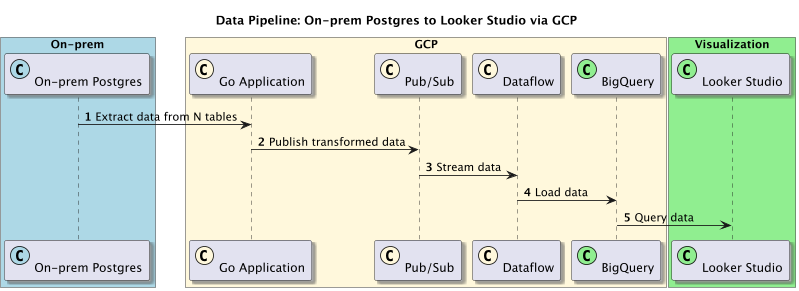
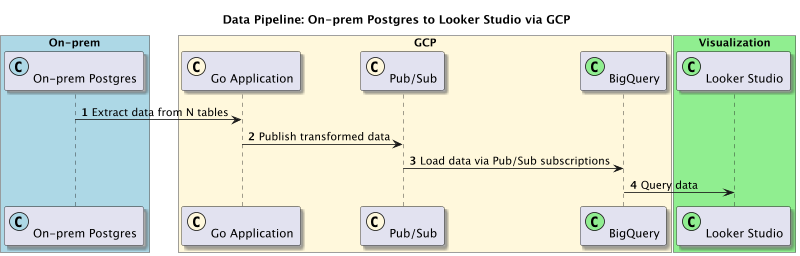
v02

Changed region(s): [[0.0, 0.125, 1.0, 1.0], [0.2703, 0.0312, 0.7209, 0.0938]]

diff --git a/cmd/main.go b/cmd/main.go
@@ -40,10 +40,10 @@ func main() {
 			defer func() { <-semaphore }()
 
 			// Load data from Postgres
-			loader := data.NewLoader(conn, tableConfig.Name)
+			loader := data.NewLoader(conn, tableConfig.Schema, tableConfig.Name)
 			records, err := loader.LoadData(ctx)
 			if err != nil {
-				log.Printf("Failed to load data for table %s: %v", tableConfig.Name, err)
+				log.Printf("Failed to load data for table %s.%s: %v", tableConfig.Schema, tableConfig.Name, err)
 				return
 			}
 
@@ -54,16 +54,16 @@ func main() {
 			// Initialize PubSub client for the specific topic
 			pubSubClient, err := gcp.NewPubSubClient(ctx, cfg.PubSub, tableConfig.TopicID)
 			if err != nil {
-				log.Printf("Failed to create PubSub client for table %s: %v", tableConfig.Name, err)
+				log.Printf("Failed to create PubSub client for table %s.%s: %v", tableConfig.Schema, tableConfig.Name, err)
 				return
 			}
 
 			// Publish data to PubSub
 			err = pubSubClient.Publish(ctx, transformedData, cfg.PubSub.Workers)
 			if err != nil {
-				log.Printf("Failed to publish data for table %s: %v", tableConfig.Name, err)
+				log.Printf("Failed to publish data for table %s.%s: %v", tableConfig.Schema, tableConfig.Name, err)
 			} else {
-				log.Printf("Successfully published data for table %s", tableConfig.Name)
+				log.Printf("Successfully published data for table %s.%s", tableConfig.Schema, tableConfig.Name)
 			}
 		}(tableConfig)
 	}

diff --git a/internal/data/loader.go b/internal/data/loader.go
@@ -9,17 +9,19 @@ import (
 
 type Loader struct {
 	dbConn *db.PostgresConnection
+	schema string
 	table  string
 }
 
-func NewLoader(dbConn *db.PostgresConnection, table string) *Loader {
+func NewLoader(dbConn *db.PostgresConnection, schema string, table string) *Loader {
 	return &Loader{
 		dbConn: dbConn,
+		schema: schema,
 		table:  table,
 	}
 }
 
 func (l *Loader) LoadData(ctx context.Context) ([]map[string]interface{}, error) {
-	log.Printf("Loading data from table: %s", l.table)
-	return db.LoadData(l.dbConn, l.table)
+	log.Printf("Loading data from table: %s.%s", l.schema, l.table)
+	return db.LoadData(l.dbConn, l.schema, l.table)
 }

diff --git a/internal/db/db.go b/internal/db/db.go
@@ -32,8 +32,9 @@ func (pc *PostgresConnection) Close(ctx context.Context) {
 	pc.Pool.Close()
 }
 
-func LoadData(dbConn *PostgresConnection, table string) ([]map[string]interface{}, error) {
-	query := fmt.Sprintf("SELECT * FROM %s", table)
+func LoadData(dbConn *PostgresConnection, schema string, table string) ([]map[string]interface{}, error) {
+	// Ensure table name is properly quoted to handle mixed-case and special characters
+	query := fmt.Sprintf(`SELECT * FROM "%s"."%s"`, schema, table)
 	rows, err := dbConn.Pool.Query(context.Background(), query)
 	if err != nil {
 		return nil, fmt.Errorf("failed to execute query: %w", err)

diff --git a/config/config.go b/config/config.go
@@ -24,6 +24,7 @@ type PostgresConfig struct {
 
 type TableConfig struct {
 	Name    string `yaml:"name"`
+	Schema  string `yaml:"schema"`
 	TopicID string `yaml:"topic_id"`
 }
 

diff --git a/README.md b/README.md
@@ -35,14 +35,17 @@ db2viz is a data pipeline project that demonstrates how to move data from an on-
         sslmode: disable
         tables:
             - name: nation
-            topic_id: nation
+              schema: production
+              topic_id: nation
             - name: regions
-            topic_id: regions
+              schema: production
+              topic_id: regions
         concurrency: 2
 
     pubsub:
         project_id: tfmv-371720
         credentials: /path/to/your/service-account.json 
+        workers: 20
     ```
 
 3. Build and run the Go application
@@ -58,27 +61,20 @@ This project demonstrates a simple ETL (Extract, Transform, Load) pipeline:
 
 1. **Extract**: Data is extracted from a Postgres database.
 2. **Transform**: The data is transformed as necessary within the application.
-3. **Load**: 
+3. **Load**:
    - The transformed data is published to a Google Cloud Pub/Sub topic.
-   - A ready-made Dataflow template is used to stream data from Pub/Sub to BigQuery.
+   - Pub/Sub subscriptions are used to directly populate the BigQuery tables as the data streams into Pub/Sub.
 
 The data is ultimately loaded into Google BigQuery for visualization in Looker Studio.
 
-## Using Dataflow
+## Using Pub/Sub to BigQuery
 
 To stream data from Pub/Sub to BigQuery, follow these steps:
 
-1. Ensure you have the necessary permissions and enable the required APIs for Dataflow, Pub/Sub, and BigQuery in your Google Cloud project.
-2. Create a Dataflow job using the Pub/Sub to BigQuery template:
-    - Go to the Google Cloud Console.
-    - Navigate to Dataflow > Jobs.
-    - Click on "Create job from template".
-    - Select the "Pub/Sub to BigQuery" template.
-    - Fill in the required parameters:
-        - **Job name**: A unique name for your Dataflow job.
-        - **Pub/Sub topic**: The full name of the Pub/Sub topic (e.g., `projects/your-project/topics/flights-topic`).
-        - **BigQuery output table**: The BigQuery table where the data will be written (e.g., `your-project:dataset.flights`).
-    - Click "Run job".
+1. Ensure you have the necessary permissions and enable the required APIs for Pub/Sub and BigQuery in your Google Cloud project.
+2. Create Pub/Sub subscriptions that write directly to BigQuery:
+    - Define a subscription for each Pub/Sub topic associated with your tables.
+    - Configure the subscription to use a push endpoint that writes to BigQuery.
 
 ## Visualizing Data in Looker Studio
 
@@ -91,4 +87,34 @@ Once the data is in BigQuery, you can use Looker Studio to visualize it:
 5. Click "Connect".
 6. Create your report and add visualizations as needed.
 
-This setup provides a robust and scalable way to handle data movement from an on-premises database to a cloud-based data warehouse, making it accessible for advanced analytics and visualization.
+## Networking
+
+To set up connectivity between your on-premises network and Google Cloud, you can use one of the following methods:
+
+### Cloud VPN
+
+1. **Create a Cloud VPN Gateway**: Establish a VPN gateway in GCP.
+2. **Configure VPN Tunnels**: Set up IPsec tunnels between your on-premises VPN gateway and the GCP VPN gateway.
+3. **Use Cloud Router**: Configure dynamic routing using BGP.
+4. **Configure Firewall Rules**: Allow traffic between on-premises and GCP.
+
+### Cloud Interconnect
+
+For higher bandwidth and lower latency:
+
+1. **Order Circuits**: Arrange for dedicated or partner interconnect circuits.
+2. **Create Interconnect Connection**: Establish a physical connection to GCP.
+3. **Configure VLAN Attachments**: Set up VLANs for traffic routing.
+4. **Use Cloud Router**: Manage dynamic routing.
+
+### Networking Example
+
+To set up an HA VPN:
+
+1. **Create an HA VPN Gateway**:
+
+```sh
+   gcloud compute target-vpn-gateways create ha-vpn-gateway --region us-central1
+```
+
+![db2viz](assets/network.png)
